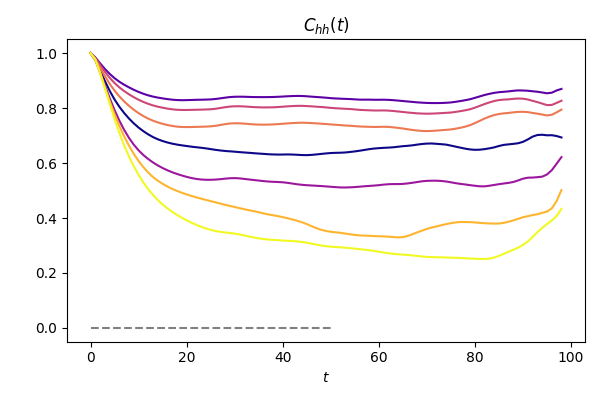
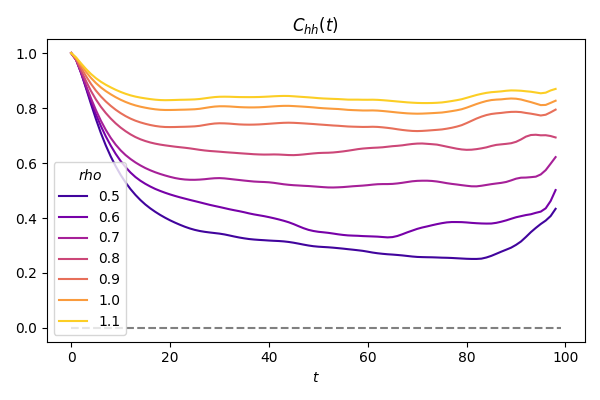
removed sorting when no legend

diff --git a/analysis/visualization/plot_correlations.py b/analysis/visualization/plot_correlations.py
@@ -18,6 +18,49 @@ from utils.config_functions   import load_config, get_config_value
 from utils.correlation_object import VMAutocorrelationObject
 
 
+def sort_files(fpattern, legend):
+    """ 
+    Goes through files to plot and returns sorted arrays of legend and file
+
+    Parameters:
+    - fpattern: pattern in file name
+    - legend: key in config that is used to label plot. Also used as title on legend.
+    """
+
+    files  = []
+    labels = []
+
+    # Aquire labels from config
+    for path in Path("data/simulated/obj/").glob(f"{fpattern}*.autocorr"):
+
+        # File path
+        fname = f"{fpattern}{os.path.basename(path).split(fpattern)[-1]}"
+
+        # Load data
+        corr_obj = VMAutocorrelationObject(fname)
+
+        # Load config to get plot label
+        config_path = f"data/simulated/configs/{corr_obj.fname}.json"
+        config = load_config(config_path)
+
+        # save in arrays
+        files.append(fname)
+        labels.append(get_config_value(config, legend))
+
+    # Sort labels if legend is specified
+    if legend != '':
+        
+        sort_inds = np.argsort(labels)
+        sort_files  = np.array(files)[sort_inds]
+        sort_labels = np.array(labels)[sort_inds]
+
+        return sort_files, sort_labels
+    
+    else:
+        return files, labels
+
+
+
 def initialize_figure(variable_name, type):
     """ Create figure """
     plt.figure(figsize=(6, 4))
@@ -30,7 +73,7 @@ def initialize_figure(variable_name, type):
     else:
         plt.title(rf'$C_{{{variable_name}}}(t)$')
         plt.xlabel(r'$t$')
-        plt.hlines(0, 0, 50, linestyle="dashed", color="gray")
+        plt.hlines(0, 0, 99, linestyle="dashed", color="gray")
 
 
 
@@ -55,25 +98,19 @@ def main():
     # create figure and plot line at 0 
     initialize_figure(args.variable, args.type)
 
+    # sort data sets by legend value
+    files, labels = sort_files(args.fpattern, args.legend)
+
     # define line colors
-    nfiles = (len(list(Path("data/simulated/obj/").glob(f"{args.fpattern}*.autocorr"))))
     cmap   = mpl.colormaps[args.cmap]
-    colors = cmap(np.linspace(0.1, 0.9, nfiles))
+    colors = cmap(np.linspace(0.1, 0.9, len(files)))
 
 
     # plot from each data set
-    for color, path in zip(colors, Path("data/simulated/obj/").glob(f"{args.fpattern}*.autocorr")):
-
-        # File path
-        fname = f"{args.fpattern}{os.path.basename(path).split(args.fpattern)[-1]}"
+    for fname, label, color in zip(files, labels, colors):
 
         # Load data
         corr_obj = VMAutocorrelationObject(fname)
-
-        # Load config to get plot label
-        config_path = f"data/simulated/configs/{corr_obj.fname}.json"
-        config = load_config(config_path)
-        label  = get_config_value(config, args.legend)
         
         # Generate plot
         if args.type == "r":
@@ -90,8 +127,11 @@ def main():
                      color=color, 
                      label=label)
         
+    # Add legend
+    if args.legend != '':
+        plt.legend(title=rf'$\{args.legend}$')
+
     # Save plot
-    plt.legend(title=rf'$\{args.legend}$')
     plt.tight_layout()
     save_plot(plt, output_path)
 
